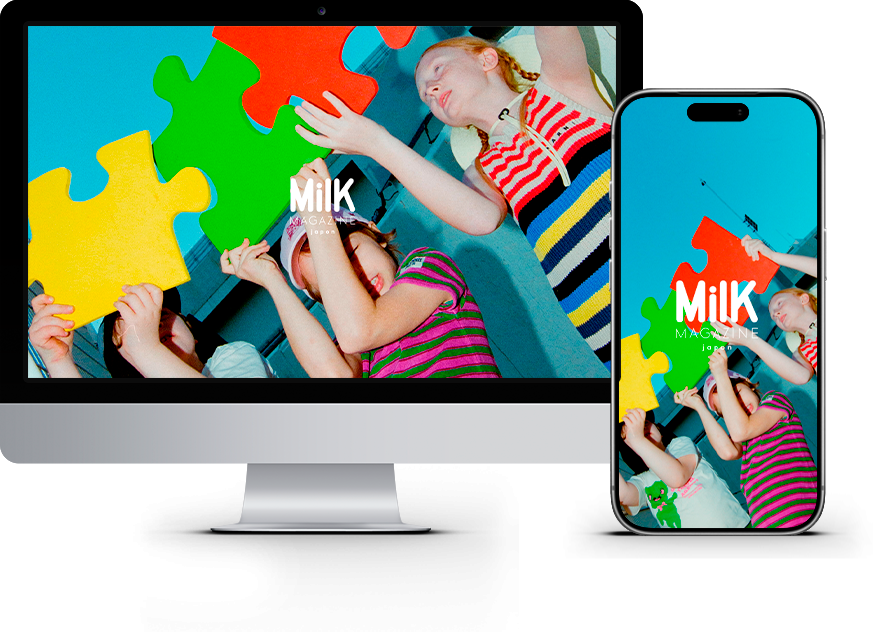
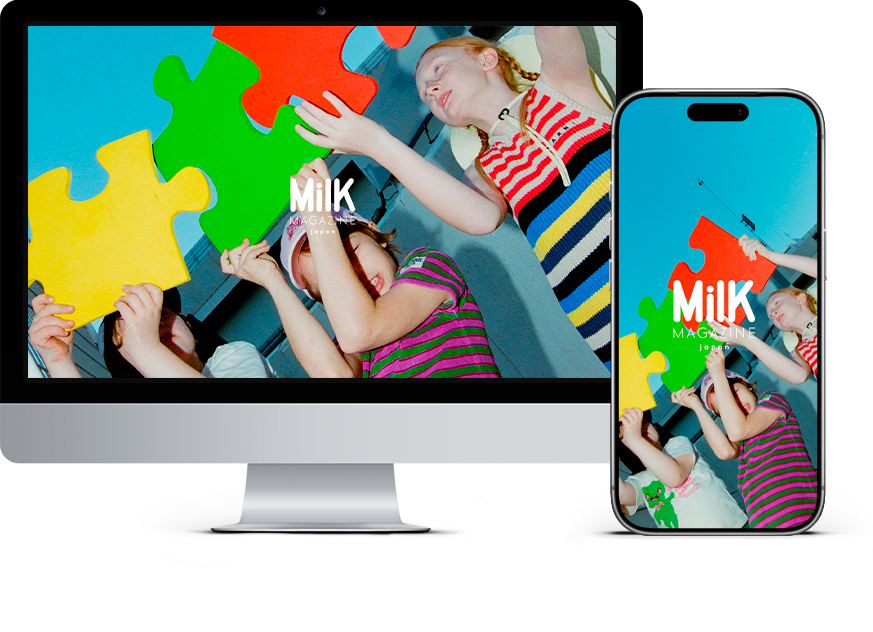
Fix design updates based on PDF feedback (#18)
* UI adjustments for design feedback

* Replace favicon and web mockup images

* Fix WORKS page header margins to match TOP (100px PC / 70px SP)

* Fix bottom padding of work-images-inner and work-web-inner to 100px (PC) / 70px (SP)

* Fix gray area padding to 60px (PC) / 80px (SP) top and bottom

* Revert hero image bottom margin to 60px (PC) / 80px (SP)

* Update SP gray area margins to 70px

diff --git a/src/styles/global.css b/src/styles/global.css
@@ -50,7 +50,7 @@ header.nav-only {
   color: #000000;
   letter-spacing: 0.15em;
   text-transform: uppercase;
-  margin-bottom: 40px;
+  margin-bottom: 30px;
 }
 
 .header-left h1 a {
@@ -92,7 +92,7 @@ nav a:hover {
 }
 
 footer {
-  margin-top: 120px;
+  margin-top: 100px;
   padding-bottom: 20px;
   text-align: center;
 }
@@ -120,6 +120,6 @@ footer p {
     margin-bottom: 14px;
   }
   footer {
-    margin-top: 110px;
+    margin-top: 70px;
   }
 }
